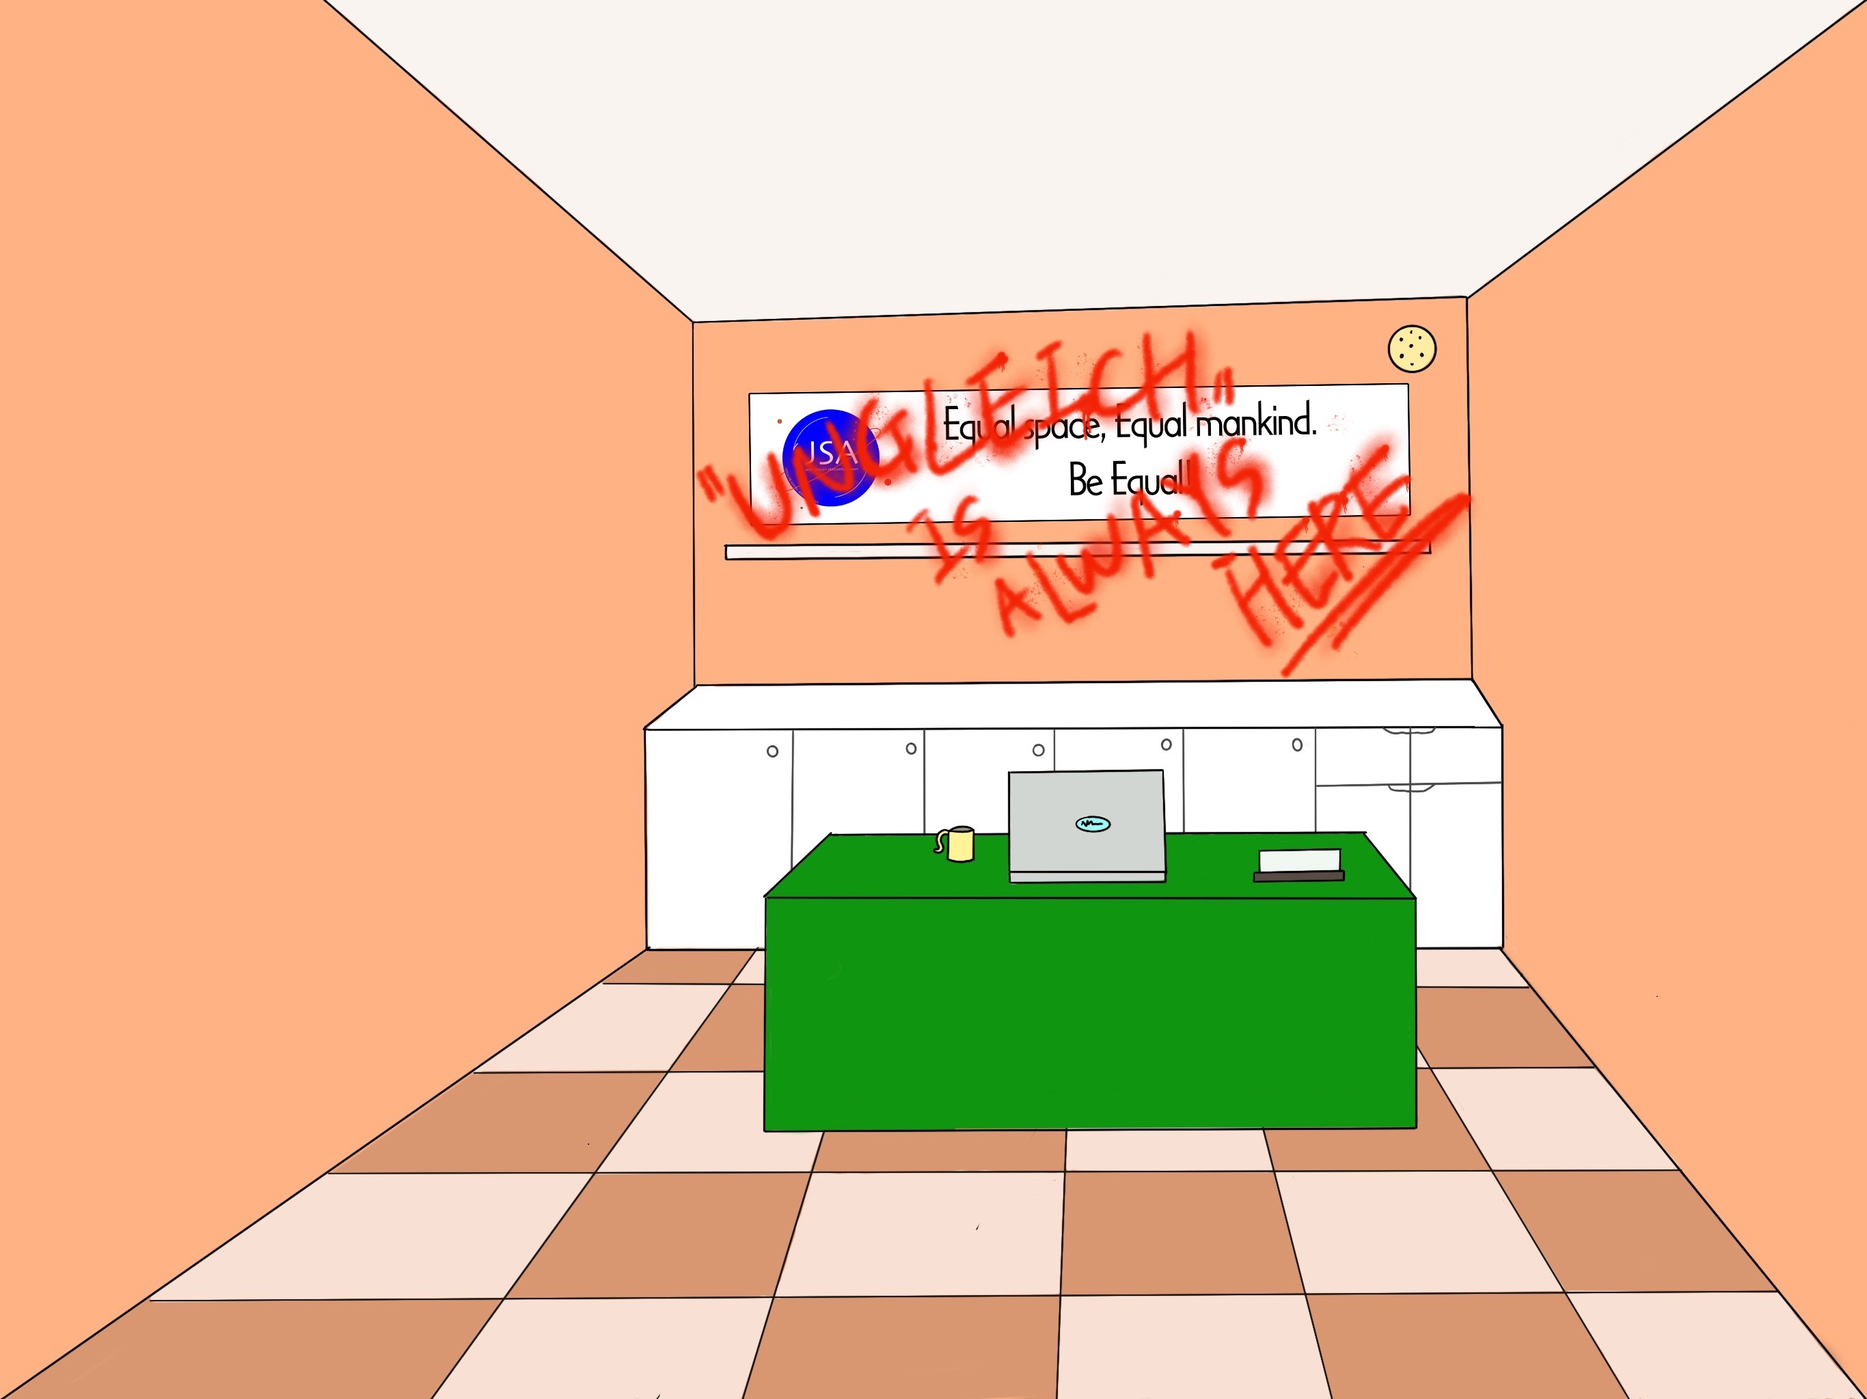
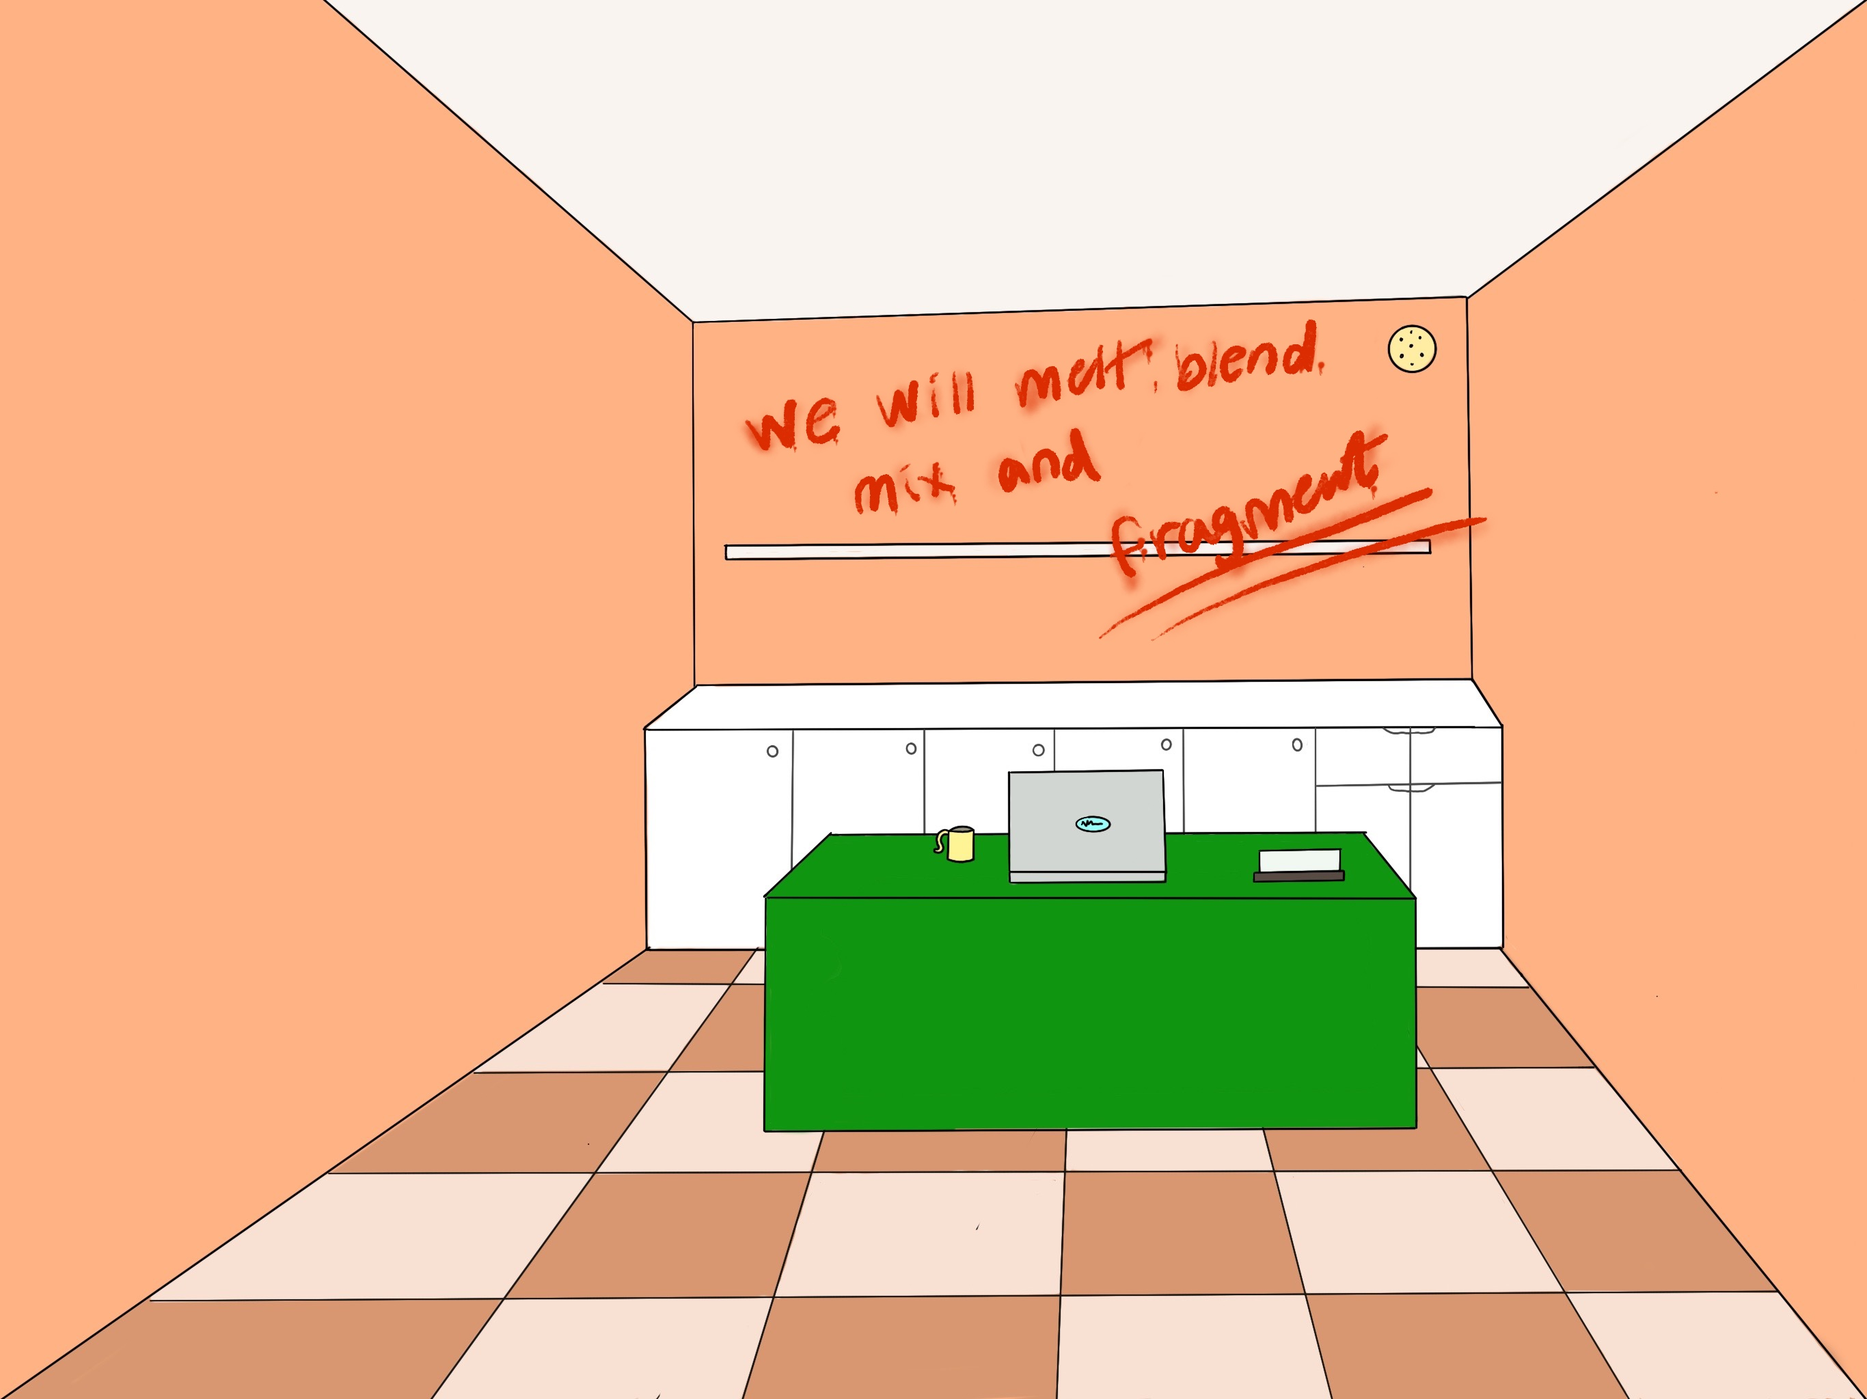
Fix text. Change last ending door

Changed region(s): [[0.3734, 0.2188, 0.8089, 0.5]]

diff --git a/components/scene/ThirtySeven.tsx b/components/scene/ThirtySeven.tsx
@@ -4,8 +4,8 @@ import { SubscriptionBox } from '../Subscription'
 const subThirtySeven = [
   {
     author: 'Mr.Fainter',
-    text: '어서오세요. 이 곳은 우리 j.s.a의 13번째 실험체 &lt;Glück Machine&gt;  입니다. <br /> 당신은 우리의 n번째 실험대상자로 선정되었습니다. 우리는 실험체의 무의식을 분석하여 우리 JSA회사의 미래 인재를 찾는 새로운 양자역학을 발견하였습니다. 우리 회사 J.S.A는 이 실험을 통해 자격이 있는 인재를 선별하고 육성하기로 결정했습니다.',
-    enText: `Welcome. This is our 13th experiment, the &lt;Glück Machine&gt;. <br /> You were selected as our 513th subject. We have discovered a new quantum mechanics that analyzes the unconsciousness of the experiment and finds the future talent of our J.S.A. company. Our company J.S.A. decided to select and nurture qualified personnel through this experiment.`,
+    text: '어서오세요. 이 곳은 우리 J.S.A의 13번째 실험체 &lt;Glück Machine&gt;  입니다. <br /> 당신은 우리의 n번째 실험대상자로 선정되었습니다. 우리는 실험체의 무의식을 분석하여 우리 JSA회사의 미래 인재를 찾는 새로운 양자역학을 발견하였습니다. 우리 회사 J.S.A는 이 실험을 통해 자격이 있는 인재를 선별하고 육성하기로 결정했습니다.',
+    enText: `Welcome. This is our J.S.A test subject, the &lt;Glück Machine-8&gt;. <br /> You have been selected for our 513th dispatch. In the meantime, we analyzed the unconscious of the test subject and discovered new quantum mechanics to find future talent for our J.S.A. company. Our company, J.S.A, decided to select, nurture, and dispatch qualified personnel through this experiment.`,
   },
   {
     author: 'Mr.Schluss',
@@ -24,8 +24,8 @@ const subThirtySeven = [
   },
   {
     author: 'Mr.Fainter',
-    text: '네 이 방안에 당신이 원하는 로비로 통하는 길이 있길 바랍니다.',
-    enText: `Yes. I hope there's a way to the lobby you want in this room.`,
+    text: '걱정마세요. 우리가 빅데이터를 사용해 최적의 미래로 보내드릴게요. 만약 당신이 적합한 사람이라면요.',
+    enText: `Don’t worry. We will dispatch you to an optimized future using the big data we have collected. <br /> Oh, if you're the right person.`,
   },
   {
     author: 'Mr.Schluss',
@@ -34,8 +34,8 @@ const subThirtySeven = [
   },
   {
     author: 'Mr.Fainter',
-    text: '나가기 위해서는 먼저 들어와야 합니다. 시간은 한 방향으로만 흐르고 있어요. Don’t never look back. 어짜피 돌아갈 수 없습니다',
-    enText: `You got to get in to get out. Time is only flowing in one direction. Don’t never look back. We can't go back anyway.`,
+    text: '나가기 위해서는 먼저 들어와야 합니다. 시간은 한 방향으로만 흐르고 있어요. Don’t never look back. 어차피 돌아갈 수 없습니다',
+    enText: `You got to get in to get out. Time is only flowing in one direction. Don’t never look back. We can't go back anyway. Don't you want a world where all love awaits?`,
   },
   {
     author: 'Mr.Schluss',
@@ -45,7 +45,7 @@ const subThirtySeven = [
   {
     author: 'Mr.Fainter',
     text: '글쎄요. 제가 아는 한 이 기계는 안전했습니다만… 그것 또한 이 굿럭 머신의 분석에 따라 달라질 수도 있습니다. 자 이제 당신의 무의식이 말하는 당신의 미래는 무엇일까요. 우리의 Glück Machine은 실험체의 정신을 분석하여 개개인 맞춤 서비스를 제공합니다. 이 방은 당신을 로비로 안내할수도, 따뜻한 당신의 집으로 안내할 수도 또 102938억 광년 떨어진 plant-736으로 안내할 수도 있습니다.',
-    enText: `Well, as far as I know, this machine was safe, but... It may also depend on the analysis of this Glück Machine. Now what is your future that your unconsciousness says? Our Glück Machine analyzes the spirit of the experiment and provides personalized services. This room can lead you to the lobby, to your warm home, or to plant-736 which is 10293.8 billion light years away.`,
+    enText: `Well, as far as I know, this machine was safe, but... It may also depend on the analysis of this Glück Machine. Now let's find out who you are through your subconscious mind. Our Glück Machine analyzes the subject's mind and provides personalized service and provides personalized service. This room can take you to the lobby, to your warm home, or to plant-736, 10293.8 billion light years away.`,
   },
   {
     author: 'Mr.Schluss',
@@ -60,12 +60,12 @@ const subThirtySeven = [
   {
     author: 'Mr.Schluss',
     text: '정말 지긋지긋하네요. 고작 기계따위가 정한 내 미래를 감당하라고요?  내가 왜요! 나는 평생 착한 일만 하며 건실한 직장에 취직하고 근면성실하게 살았는데. 나는 너무 억울해요. 내가 아는 한 삶은 이렇게 불공평하지 않습니다.',
-    enText: `I'm sick and tired of it. You want me to live up to my future set by that machine? Why me? All my life, I did good things, got a decent job, and lived diligently. I'm so upset. Life isn't this unequal as far as I know.`,
+    enText: `I'm sick of it. Do you want me to live up to my future set by that machine? Why me? All my life, I did good things, got a decent job, and lived diligently. I'm so upset. Life isn't this unfair as far as I know.`,
   },
   {
     author: 'Mr.Fainter',
     text: '삶은 공평해요. 특히 이 곳에서는 더욱 더 공평하죠. 우리는 누구보다도 공평함을 추구 하고 있습니다. <br />음… 그렇다면 당신의ㅡ카르마때문이라고 생각해보세요. 한결 낫죠? 자 그럼 Good luck~',
-    enText: `Life is equal. Especially here, it's even more equal. We are seeking equality more than anyone else. Well…. Then think it's because of your Karma. It's much better, isn’t it? Then, good luck!`,
+    enText: `Life is fair. Especially here, it's even more equal. We are seeking equality more than anyone else. Well…. Then think it's because of your Karma. It's much better, isn’t it? Then, good luck!`,
   },
 ]
 

diff --git a/components/scene/ThirtyOne.tsx b/components/scene/ThirtyOne.tsx
@@ -7,12 +7,12 @@ const subThirtyOne = [
   {
     author: 'Mr.Middle',
     text: '안녕하세요 나는 회사의 분석관 인사팀 Mr.middle입니다 <br /> 당신은 최근 우리 회사 내에서 일어나는 두 진영의 대립에 대해서 얼마나 알고 있죠?',
-    enText: `Hello. I’m Mr.middle, the analyst of the company.How much do you know about the recent confrontation between the two camps within our company?`,
+    enText: `Hello. I’m Mr.middle, the analyst of the company. This room is called camera obscura. How much do you know about the recent confrontation between the two camps within our company?`,
   },
   {
     author: 'Mr.Schluss',
-    text: 'Ungleich와의 대립 말인가요? ',
-    enText: `You mean confrontation with Ungleich?`,
+    text: 'Fragment와의 대립 말인가요? ',
+    enText: `Do you mean confrontation with Fragment?`,
   },
   {
     author: 'Mr.Middle',
@@ -26,8 +26,8 @@ const subThirtyOne = [
   },
   {
     author: 'Mr.Middle',
-    text: '그렇다면 당신은 ungleich를 반대하나요?',
-    enText: `So are you against ‘Ungleich’?`,
+    text: '그렇다면 당신은 Fragment를 반대하나요?',
+    enText: `So are you against ‘Fragment’?`,
   },
   {
     author: 'Mr.Schluss',
@@ -36,14 +36,14 @@ const subThirtyOne = [
   },
   {
     author: 'Mr.Middle',
-    text: '그렇군요. 당신은 ‘Ungleich’에 대해 얼마나 알고 있죠?',
-    enText: `Okay. How much do you know about ‘Ungleich’?`,
+    text: '그렇군요. 당신은 ‘Fragment’에 대해 얼마나 알고 있죠?',
+    enText: `Okay. How much do you know about ‘Fragment’?`,
   },
 
   {
     author: 'Mr.Schluss',
     text: '잘 알지는 못해요. 그저 그들이 직원들을 선동하여 사내 분란을 일으킨다는 사실 밖에요',
-    enText: `Not that much I guess? It's just that they incite our employees to cause internal riots.`,
+    enText: `Not that much I guess? It's just that they incite our employees to cause internal riots. All I know is that they claim that 'To love everything is to love nothing’.`,
   },
   {
     author: 'Mr.Middle',
@@ -57,7 +57,7 @@ const subThirtyOne = [
   },
   {
     author: 'Mr.Middle',
-    text: '하지만 그 안에 속하지 않고서는 그들을 판단할 수 없지 않을까요? 아 참고로 저는 그들을 옹호하는 것이 아닙니다 <br /> 우리 회사와 ungleich 둘 다 해당되는 이야기니까요. 그저 당신의 의견을 듣고 싶었습니다.',
+    text: '하지만 그 안에 속하지 않고서는 그들을 판단할 수 없지 않을까요? 아 참고로 저는 그들을 옹호하는 것이 아닙니다 <br /> 우리 회사와 Fragment 둘 다 해당되는 이야기니까요. 그저 당신의 의견을 듣고 싶었습니다.',
     enText: `But wouldn't you be able to judge them without belonging to them? Oh, by the way, I'm not defending them. It's an analysis that applies to both our company and ‘Unleich’. I just wanted to hear your opinion.`,
   },
   {

diff --git a/components/scene/Twelve.tsx b/components/scene/Twelve.tsx
@@ -53,9 +53,9 @@ const subTwelve = [
 
 const subTwelveRadio = [
   {
-    text: 'Recently, JSA, an aerospace industry, has succeeded in a new experiment using quantum mechanics. The success of this secret experiment is expected to mean a lot. According to what is known, if this technology is commercialized, it is expected to be a great help in developing and nurturing new talent. We will tell you the weather in the next news.',
+    text: 'Recently, JSA, an aerospace industry, has succeeded in a new experiment using quantum mechanics. The success of this secret experiment is expected to mean a lot. According to what is known, if this technology is commercialized, it is expected to be a great help in developing and nurturing new talent. We will tell you about the weather in the next news.',
     enText:
-      'Recently, JSA, an aerospace industry, has succeeded in a new experiment using quantum mechanics. The success of this secret experiment is expected to mean a lot. According to what is known, if this technology is commercialized, it is expected to be a great help in developing and nurturing new talent. We will tell you the weather in the next news.',
+      'Recently, JSA, an aerospace industry, has succeeded in a new experiment using quantum mechanics. The success of this secret experiment is expected to mean a lot. According to what is known, if this technology is commercialized, it is expected to be a great help in developing and nurturing new talent. We will tell you about the weather in the next news.',
     additionalStyle: { fontStyle: 'italic', fontWeight: 'bold' },
   },
 ]

diff --git a/components/scene/Three.tsx b/components/scene/Three.tsx
@@ -24,8 +24,8 @@ const mapArea = [
 const textSequence = [
   {
     author: '???',
-    text: '반갑습니다. Mr. Schluss. 최근 우리 회사는 불법 스쾃 ‘Ungleich’ 때문에 많은 피해를 보고 있습니다. ‘Equal Space, Equal Mankind’의 모토를 가진 우리 회사의 근간을 위협하는 그들은 주로 신입 직원들에게 접근하여 잘못된 사상을 주입시켜 선동하니 부디 그들의 흔적을 찾아주세요. ',
-    enText: `Nice to meet you, Mr. Schluss. Recently, our company has been suffering a lot from illegal squatter 'Ungleich'. Threatening the foundation of our company, which has the motto of ‘Equal Space, Equal Mankind’, they mainly approach new employees and incite them to instigate false ideas, so please patrol our company.`,
+    text: '반갑습니다. Mr. Schluss. 최근 우리 회사는 불법 스쾃 ‘Fragment’ 때문에 많은 피해를 보고 있습니다. ‘Equal Space, Equal Mankind’의 모토를 가진 우리 회사의 근간을 위협하는 그들은 주로 신입 직원들에게 접근하여 잘못된 사상을 주입시켜 선동하니 부디 그들의 흔적을 찾아주세요. ',
+    enText: `Nice to meet you, Mr. Schluss. Recently, our company has been suffering a lot from illegal squatter 'Fragment'. Threatening the foundation of our company, which has the motto of ‘Equal Space, Equal Mankind’, they mainly approach new employees and incite them to instigate false ideas, so please patrol our company.`,
   },
   {
     author: '???',

diff --git a/components/scene/ThirtyNine.tsx b/components/scene/ThirtyNine.tsx
@@ -20,13 +20,13 @@ const subThirtyNine = [
   },
   {
     author: 'Mr.Schluss',
-    text: '글쎄. 일단 나는 ungleich가 아니야. 그리고 공평한 세상을 추구해. <br /> 그러니까 나는 공평한 사람이지. 공평하다는 것은 좋은 것이니까 나는 착한 사람인거고.',
+    text: '글쎄. 일단 나는 Fragment가 아니야. 그리고 공평한 세상을 추구해. <br /> 그러니까 나는 공평한 사람이지. 공평하다는 것은 좋은 것이니까 나는 착한 사람인거고.',
     enText: `Well, first of all, I'm not the ‘Unleich’. And seek a equal world. So I'm a equal man. Being equal is a good thing, so I'm a good person. And I've never committed a crime in particular. Then am I not a good person?`,
   },
   {
     author: 'Snowman',
     text: '그렇다면 세상이 공평하다면 왜 착한 인간에게 나쁜 일은 끊임없이 일어나는걸까?',
-    enText: `Then, if the world is equal, why does bad things happen constantly to good people?`,
+    enText: `Then, if the world is equal, why does bad things happen constantly to good people? Why doesn't this world love everyone? After all, wouldn't 'Loving everything be the same as loving nothing'?`,
   },
   {
     author: 'Mr.Schluss',

diff --git a/components/scene/One.tsx b/components/scene/One.tsx
@@ -41,8 +41,8 @@ const mapArea = [
 
 const subOne: TextSequence[] = [
   {
-    text: '항공 우주 산업 회사의 새로운 보안팀 직원으로 취직하게 된 Mr.Schluss. <br /> 평범한 회사처럼 보이지만 최근 사내 ‘Ungleich’라는 불법 스쾃의 활동으로 골머리를 썩고있다.',
-    enText: `Mr. Schluss got a job as a new security team member for the aerospace company.<br/> It looks like an ordinary company, but recently it has been in trouble due to the activities of an illegal squatter called 'Ungleich' in the company.`,
+    text: '항공 우주 산업 회사의 새로운 보안팀 직원으로 취직하게 된 Mr.Schluss. <br /> 평범한 회사처럼 보이지만 최근 사내 ‘Fragment’라는 불법 스쾃의 활동으로 골머리를 썩고있다.',
+    enText: `Mr. Schluss got a job as a new security team member for the aerospace company.<br/> It looks like an ordinary company, but recently it has been in trouble due to the activities of an illegal squatter called 'Fragment' in the company.`,
   },
 ]
 

diff --git a/components/scene/TwentyFour.tsx b/components/scene/TwentyFour.tsx
@@ -8,8 +8,8 @@ import Styles from '../../styles/global.module.css'
 const subTwnetyfour = [
   {
     author: 'Twins',
-    text: `오! 우리는 아무 짓도 안했어요. 우린 ‘Ungleich’가 절대 아니에요!`,
-    enText: `Oh! We didn't do anything. We're definitely not 'Ungleich'!`,
+    text: `오! 우리는 아무 짓도 안했어요. 우린 ‘Fragment’가 절대 아니에요!`,
+    enText: `Oh! We didn't do anything. We're definitely not 'Fragment'!`,
   },
   {
     author: 'Mr.Schluss',
@@ -19,7 +19,7 @@ const subTwnetyfour = [
   {
     author: 'Twins',
     text: '오 제발 믿어주세요. 우리는 일주일을 공평하게 나누기 위해 같은 스웨터를 입기까지 한다고요.',
-    enText: `Oh please trust me. We even wear the same sweater to split the week evenly.`,
+    enText: `Oh please trust me. We respect the company motto. Look! Even we have our fair share of this sweater.`,
   },
   {
     author: 'Mr.Schluss',

diff --git a/pages/index.tsx b/pages/index.tsx
@@ -336,7 +336,7 @@ const IndexPage = () => {
       case '25':
         return (
           <ImageContainer
-            src="/25.JPG"
+            src="/25.jpg"
             indicator={
               <Indicator
                 style={{
@@ -605,7 +605,7 @@ const IndexPage = () => {
                 top: '21.35135135135135%',
               },
             ]}
-            onMapClick={movePage(35)}
+            onMapClick={movePage(39)}
           />
         )
       case '35':
@@ -654,7 +654,7 @@ const IndexPage = () => {
                 style={{
                   bottom: '10%',
                 }}
-                onClick={movePage(39)}
+                onClick={movePage(35)}
               />
             }
           />

diff --git a/components/scene/TwentyNineSide.tsx b/components/scene/TwentyNineSide.tsx
@@ -6,8 +6,8 @@ import { SubscriptionBox } from '../Subscription'
 const subTwnetynineSide = [
   {
     author: 'Space mann ',
-    text: `‘Ungleich’ 놈들은 어디있는거야? 이봐 당신 이곳엔 무슨 일이지? 혹시 너도 ‘Ungleich’의 한패야?`,
-    enText: `Where are the damm ‘Ungleich’? Hey, what are you doing here? Are you also a member of ‘Ungleich’?`,
+    text: `‘Fragment’ 놈들은 어디있는거야? 이봐 당신 이곳엔 무슨 일이지? 혹시 너도 ‘Fragment’의 한패야?`,
+    enText: `Where is the damm ‘Fragment’? Hey, what are you doing here? Are you also a member of ‘Fragment’?`,
   },
   {
     author: 'Mr.Schluss',

diff --git a/components/scene/Fourteen.tsx b/components/scene/Fourteen.tsx
@@ -23,7 +23,7 @@ const subFourteen = [
   {
     author: 'Mr.Schluss',
     text: '무슨 말이지?',
-    enText: `What does it means?`,
+    enText: `What does it mean?`,
   },
 ]
 
